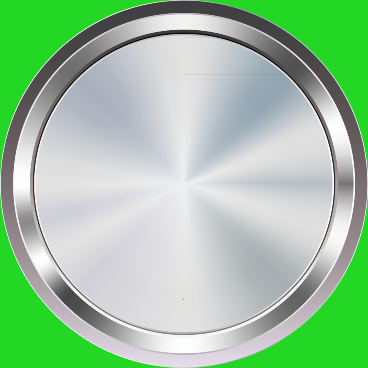
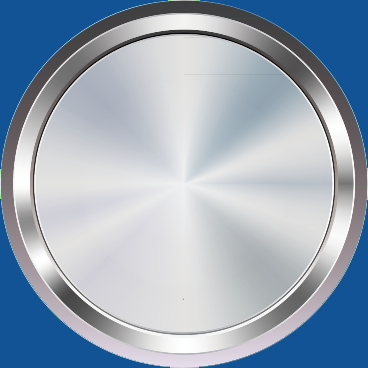
cambiados colores y fuentes

diff --git a/tp1_progra3/src/interfaz/JuegoGanado.java b/tp1_progra3/src/interfaz/JuegoGanado.java
@@ -1,7 +1,9 @@
 package interfaz;
 
+import java.awt.Color;
 import java.awt.Dimension;
 import java.awt.EventQueue;
+import java.awt.Font;
 import java.awt.Toolkit;
 
 import javax.swing.JFrame;
@@ -57,9 +59,10 @@ public class JuegoGanado {
 		centrarVentana(ancho, alto, frame);
 		frame.setDefaultCloseOperation(JFrame.EXIT_ON_CLOSE);
 		frame.getContentPane().setLayout(null);
-		
+		frame.getContentPane().setBackground(new Color(30, 144, 255));
 		JLabel lblGanaste = new JLabel("Ganaste!");
 		lblGanaste.setBounds(182, 34, 70, 15);
+		lblGanaste.setFont(new Font("Franklin Gothic Medium Cond", Font.PLAIN, 15));
 		frame.getContentPane().add(lblGanaste);
 		
 		
@@ -67,12 +70,14 @@ public class JuegoGanado {
 		
 		JLabel lblTurnosUtilizados = new JLabel("Turnos utilizados: " + TurnosUtilizados);
 		lblTurnosUtilizados.setBounds(122, 74, 179, 16);
+		lblTurnosUtilizados.setFont(new Font("Franklin Gothic Medium Cond", Font.PLAIN, 15));
 		frame.getContentPane().add(lblTurnosUtilizados);
 		
 		int RecordActual=Principal.devolverRecord();
 		
 		JLabel textRecord = new JLabel("Record: " + RecordActual +" turnos.");
 		textRecord.setBounds(122, 102, 207, 15);
+		textRecord.setFont(new Font("Franklin Gothic Medium Cond", Font.PLAIN, 15));
 		//el record solo se muestra si fue modificado
 		if(RecordActual!=10000) {
 			frame.getContentPane().add(textRecord);
@@ -80,6 +85,7 @@ public class JuegoGanado {
 		
 		
 		JButton btnVolverAlMenu = new JButton("Volver al menu");
+		btnVolverAlMenu.setFont(new Font("Franklin Gothic Medium Cond", Font.PLAIN, 15));
 		btnVolverAlMenu.addActionListener(new ActionListener() {
 			public void actionPerformed(ActionEvent arg0) {
 				vent.mostrarse();
@@ -91,6 +97,7 @@ public class JuegoGanado {
 		frame.getContentPane().add(btnVolverAlMenu);
 		
 		JButton btnSalir = new JButton("Salir");
+		btnSalir.setFont(new Font("Franklin Gothic Medium Cond", Font.PLAIN, 15));
 		btnSalir.addActionListener(new ActionListener() {
 			public void actionPerformed(ActionEvent arg0) {
 				frame.dispose();

diff --git a/tp1_progra3/src/interfaz/App.java b/tp1_progra3/src/interfaz/App.java
@@ -13,6 +13,7 @@ import javax.swing.JButton;
 import javax.swing.AbstractButton;
 import javax.swing.ImageIcon;
 
+import java.awt.Color;
 import java.awt.Component;
 import java.awt.Dimension;
 import java.awt.event.ActionListener;
@@ -42,7 +43,7 @@ public class App {
 		EventQueue.invokeLater(new Runnable() {
 			public void run() {
 				try {
-					App window = new App(7);
+					App window = new App(4);
 					window.frmLightsOut.setVisible(true);
 				} catch (Exception e) {
 					e.printStackTrace();
@@ -87,6 +88,7 @@ public class App {
 		frmLightsOut.setBounds(x, y, ancho, alto);
 		frmLightsOut.setDefaultCloseOperation(JFrame.EXIT_ON_CLOSE);
 		frmLightsOut.getContentPane().setLayout(new GridLayout(0, i, 2, 2));
+		frmLightsOut.getContentPane().setBackground(new Color(30, 144, 255));
 		
 		//escalarImagenes(ancho , alto , i);
 		luzPrendidaIcono = escalarImagen(ancho, alto, i, luzPrendidaIcono);

diff --git a/tp1_progra3/src/interfaz/ventana.java b/tp1_progra3/src/interfaz/ventana.java
@@ -18,6 +18,10 @@ import javax.swing.JOptionPane;
 import java.awt.Font;
 import java.awt.Toolkit;
 import javax.swing.SwingConstants;
+import javax.swing.UIManager;
+
+import com.sun.org.apache.bcel.internal.generic.NEW;
+
 import java.awt.Cursor;
 import java.awt.Component;
 import javax.swing.JTextField;
@@ -118,6 +122,8 @@ public class ventana {
 		ranking.addActionListener(new ActionListener() {
 			public void actionPerformed(ActionEvent e) {
 				JOptionPane muestraRanking = new JOptionPane();
+				UIManager.put("OptionPane.background", new Color(30, 144, 255));
+				UIManager.getLookAndFeelDefaults().put("Panel.background", new Color(30, 144, 255));
 				ArrayList<Integer> rankingActual=Principal.devolverRanking();
 				Integer primerPuesto=(rankingActual.size()>=1)?rankingActual.get(0):0;
 				Integer segundoPuesto=(rankingActual.size()>=2)?rankingActual.get(1):0;
